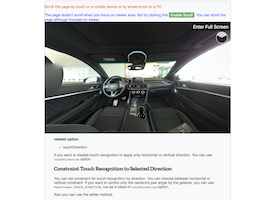
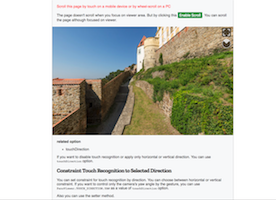
chore(demo): fix images

diff --git a/demo/examples/panoviewer/controls/doc-embeded.html b/demo/examples/panoviewer/controls/doc-embeded.html
@@ -16,6 +16,25 @@
     <link rel="stylesheet" type="text/css" href="../../../common/css/demo.css">
     <link rel="stylesheet" type="text/css" href="../../../common/css/PanoControls.css">
     <style>
+
+      .wiki-header {
+        margin: 20px;
+      }
+      .wiki-header button#touchDirectionToggleButton {
+        background-color: #209A4B;
+        padding: 4px 7px;
+        border: 0;
+        outline: none;
+      }
+      .wiki-header #touchDirectionToggleButton:hover {
+        background-color: #25BD5B;
+      }
+      button#touchDirectionToggleButton.disable {
+        background: #AF2B22;
+      }
+      button#touchDirectionToggleButton.disable:hover {
+        background: #DF392F;
+      }
       #wiki-body {
         width: 100%;
         max-width: 800px;
@@ -73,6 +92,9 @@
         color: white;
         padding: 5px;
       }
+      blockquote {
+        margin: 20px;
+      }
     </style>
 </head>
 <body>
@@ -90,14 +112,17 @@
               <span class="head">projection:</span> <a href="https://naver.github.io/egjs-view360/release/latest/doc/eg.view360.PanoViewer.PROJECTION_TYPE.html#.EQUIRECTANGULAR" target="_blank"><span class="value">EQUIRECTANGULAR</span></a>
           </p>
           <p class="info">
-              <span class="head">source:</span> <a href="./equi-car-inside.jpg" target="_blank"><img src="./equi-car-inside.jpg" style="width: 300px"></a>
+              <span class="head">source:</span> <a href="https://commons.wikimedia.org/wiki/File:Veste_Oberhaus_(Passau,_full_spherical_panoramic_image,_equirectangular_projection).jpg" target="_blank"><span class="value">Veste Oberhaus</span></a>
+          </p>
+          <p class="info">
+              <span class="head">image:</span> <a href="./veste.jpg" target="_blank"><img src="./veste.jpg" style="width: 300px"></a>
           </p>
       </div>
     </header>
     <div id="wiki-body" class="mt-4 flex-auto min-width-0 gollum-markdown-content instapaper_body">
-      <div style="color:red">
+      <div class="wiki-header" style="color:red">
         <p>Scroll this page by touch on a mobile device or by wheel-scroll on a PC</p>
-        <div style="color:blue">The page doesn't scroll when you focus on viewer area. But by clicking this <button id="touchDirectionToggleButton">Enable Scroll</button>. You can scroll the page although focused on viewer.</div>
+        <div style="color: #333;">The page doesn't scroll when you focus on viewer area. But by clicking this <button id="touchDirectionToggleButton">Enable Scroll</button>. You can scroll the page although focused on viewer.</div>
       </div>
       <!-- PanoViewer AREA-->
       <div class="panoviewer-container viewer">
@@ -131,7 +156,7 @@ var restrict = false;
 var PanoViewer = eg.view360.PanoViewer;
 var container = document.getElementById("myPanoViewer");
 var panoViewer = new PanoViewer(container, {
-    image: "./equi-car-inside.jpg",
+    image: "./veste.jpg",
     projectionType: "equirectangular"
 });
 
@@ -145,7 +170,6 @@ document.getElementById("touchDirectionToggleButton").addEventListener("click", 
   }
   
   restrict = !restrict;
-  alert("Scroll " + (restrict ? "Enabled" : "Disabled"));
 });</pre>
     </div>
 </body>
@@ -155,21 +179,25 @@ document.getElementById("touchDirectionToggleButton").addEventListener("click", 
   var PanoViewer = eg.view360.PanoViewer;
   var container = document.getElementById("myPanoViewer");
   var panoViewer = new PanoViewer(container, {
-      image: "./equi-car-inside.jpg",
+      image: "./veste.jpg",
       projectionType: "equirectangular"
   });
 
-  document.getElementById("touchDirectionToggleButton").addEventListener("click", function() {
+  document.getElementById("touchDirectionToggleButton").addEventListener("click", function(e) {
+    var target = e.currentTarget;
     if (restrict) {
+      target.className = "";
+      target.innerHTML = "Enable Scroll";
       panoViewer.setTouchDirection(PanoViewer.TOUCH_DIRECTION.ALL);
       panoViewer.setUseZoom(true);
     } else {
+      target.className = "disable";
+      target.innerHTML = "Disable Scroll";
       panoViewer.setTouchDirection(PanoViewer.TOUCH_DIRECTION.YAW);
       panoViewer.setUseZoom(false);
     }
     
     restrict = !restrict;
-    alert("Scroll " + (restrict ? "Enabled" : "Disabled"));
   });
   
   var panoviewerSet = document.getElementById("panoSet");

diff --git a/demo/examples/panoviewer/etc/loading_indicator.html b/demo/examples/panoviewer/etc/loading_indicator.html
@@ -5,13 +5,19 @@
     <meta charset="utf-8">
     <meta name="viewport" content="width=device-width,initial-scale=1.0,minimum-scale=1.0,maximum-scale=1.0,user-scalable=no">
     <title>PanoViewer examples</title>
-    <link href="https://fonts.googleapis.com/css?family=Open+Sans|Zilla+Slab:700" rel="stylesheet">
+
     <link rel="stylesheet" type="text/css" href="../../../common/css/demo.css">
+    <link rel="stylesheet" type="text/css" href="../../../common/css/PanoControls.css">
+
     <script src="../../../release/latest/dist/view360.pkgd.js"></script>
     <script src="../../../common/js/jquery-2.2.4.js"></script>
     <script src="../../../common/js/codepen.js"></script>
     <script src="../../../common/js/qrcode.js"></script>
-    
+
+    <script src="../../../common/js/screenfull.min.js"></script>
+    <script src="../../../common/js/PieView.js"></script>
+    <script src="../../../common/js/PanoControls.js"></script>
+
     <style>
     .icon {
         text-align: center;
@@ -57,13 +63,10 @@
         <h2>The loading indicator appears until view360 loading.</h2>  
         <div class="infos">
             <p class="info">
-                <span class="head">projection</span>: <a href="https://naver.github.io/egjs-view360/release/latest/doc/eg.view360.PanoViewer.PROJECTION_TYPE.html#.EQUIRECTANGULAR" target="_blank"><span class="value">EQUIRECTANGULAR</span></a>
+                <span class="head">projection</span>: <a href="https://naver.github.io/egjs-view360/release/latest/doc/eg.view360.PanoViewer.PROJECTION_TYPE.html#.PANORAMA" target="_blank"><span class="value">PANORAMA</span></a>
             </p>
             <p class="info">
-                <span class="head">image</span>: <a href="./img/planet.png" target="_blank"><span class="value">./img/planet.png</span></a>
-            </p>
-            <p class="info">
-                <span class="head">source</span>: <a href="https://www.youtube.com/watch?v=C-DdsrBNI4s" target="_blank"><span class="value">https://www.youtube.com/watch?v=C-DdsrBNI4s</span></a>
+                <span class="head">image</span>: <a href="./img/panorama2.jpg" target="_blank"><span class="value">panorama2.jpg</span></a>
             </p>
         </div>
     </header>
@@ -81,7 +84,7 @@ loadingIcon.style.display = "block";
 var container = document.getElementById("myPanoViewer");
     
 var panoViewer = new PanoViewer(container, {
-    image: <a href="../../img/equi.jpg" target="_blank"><span class="emphasis value">"../../img/equi.jpg"</span></a>
+    image: <a href="./img/panorama2.jpg" target="_blank"><span class="emphasis value">"./img/panorama2.jpg"</span></a>
 });
 
 panoViewer.on("ready", function() {
@@ -99,14 +102,16 @@ panoViewer.on("ready", function() {
             var panoViewer = new eg.view360.PanoViewer(
                 container,
                 {
-                    projectionType: "equirectangular",
-                    image: "./img/planet.png"
+                    projectionType: "panorama",
+                    image: "./img/panorama2.jpg"
                 }
             );
 
             panoViewer.on("ready", function() {
                 loadingIcon.style.display = "none";
+                panoViewer.updateViewportDimensions();
             });
+            PanoControls.init(container, panoViewer);
         });
 </script>
 

diff --git a/demo/examples/panoviewer/controls/keyboard-wheel.html b/demo/examples/panoviewer/controls/keyboard-wheel.html
@@ -174,6 +174,12 @@
                 <span class="head">projection</span>: <a href="https://naver.github.io/egjs-view360/release/latest/doc/eg.view360.PanoViewer.PROJECTION_TYPE.html#.EQUIRECTANGULAR"
                     target="_blank"><span class="value">EQUIRECTANGULAR</span></a>
             </p>
+            <p class="info">
+                <span class="head">source:</span> <a href="https://commons.wikimedia.org/wiki/File:Isabella_Plantation_3_360x180,_London,_UK_-_Diliff.jpg" target="_blank"><span class="value">VIsabella Plantation 3</span></a>
+            </p>
+            <p class="info">
+                <span class="head">image:</span> <a href="./london.jpg" target="_blank"><img src="./london.jpg" style="width: 300px"></a>
+            </p>
         </div>
 
     </header>
@@ -186,7 +192,7 @@
         <pre>
 var container = document.getElementById("myPanoViewer");
 var panoViewer = new eg.view360.PanoViewer(container, {
-    image: <a href="./equi-car-inside.jpg" target="_blank">"./equi-car-inside.jpg"</a>,
+    image: <a href="./london.jpg" target="_blank">"./london.jpg"</a>,
     projectionType: <a href="https://naver.github.io/egjs-view360/release/latest/doc/eg.view360.PanoViewer.PROJECTION_TYPE.html#.EQUIRECTANGULAR" target="_blank">"equirectangular"</a>
 });
         </pre>
@@ -195,7 +201,7 @@ var panoViewer = new eg.view360.PanoViewer(container, {
         // create PanoViewer with option
         var container = document.getElementById("myPanoViewer");
         var panoViewer = new eg.view360.PanoViewer(container, {
-            image: "./equi-car-inside.jpg",
+            image: "./london.jpg",
             projectionType: "equirectangular"
         });
 

diff --git a/demo/examples/panoviewer/etc/responsive.html b/demo/examples/panoviewer/etc/responsive.html
@@ -155,6 +155,10 @@
             <span class="head">image</span>: <a href="./img/panorama.jpg" target="_blank"><span
                     class="value">panorama.jpg</span></a>
         </p>
+        <p class="info">
+                <span class="head">source</span>: <a href="https://pixabay.com/en/clouds-mountains-cold-dawn-dusk-1868299/" target="_blank"><span
+                        class="value">Clouds Mountains Cold</span></a>
+            </p>
     </div>
     <div class="buttons">
         <button onclick="removeClass('cube');addClass('container219');resize();">21:9 Container</button>
